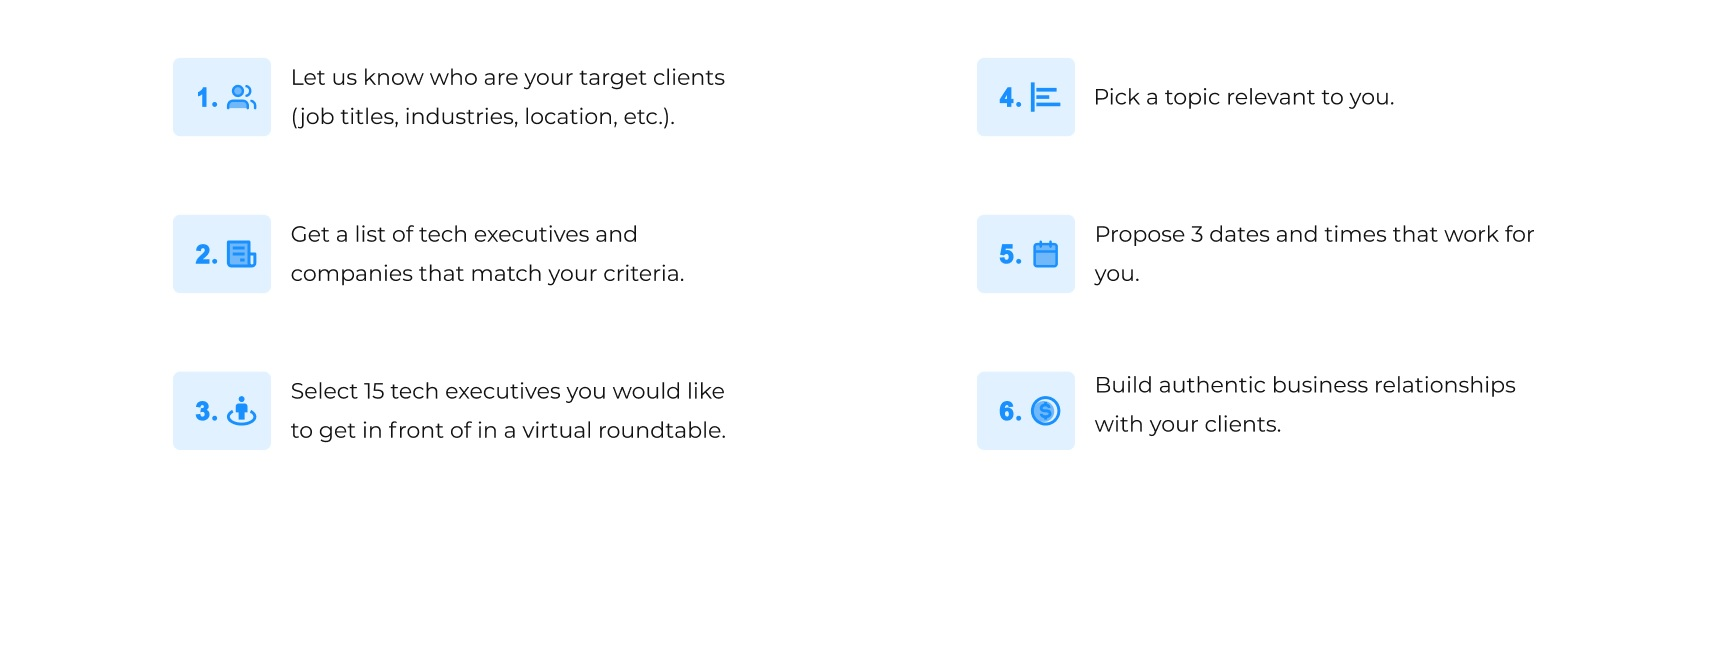
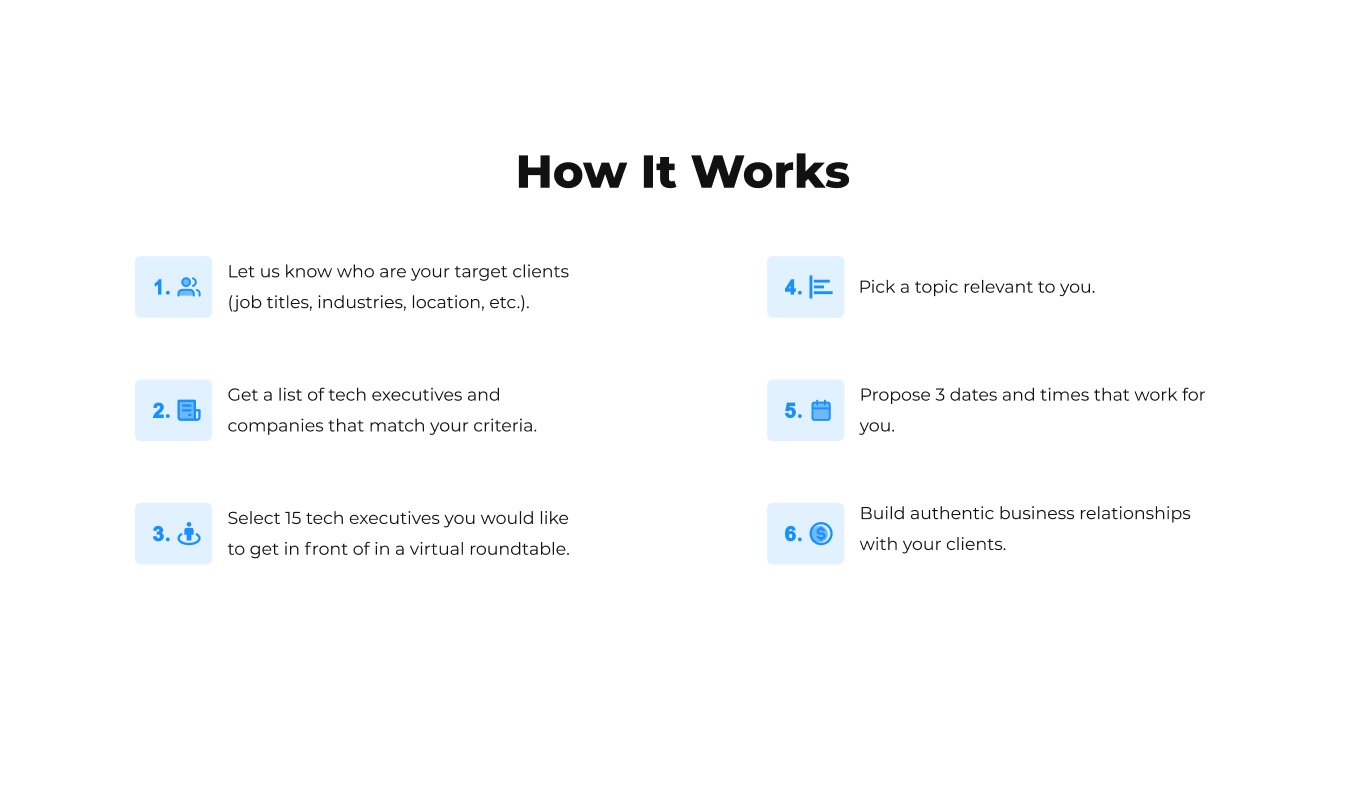
Home page style fixes

Changed region(s): [[0.0923, 0.3058, 0.4308, 0.7034], [0.0923, 0.0917, 0.8, 0.2446], [0.5538, 0.3058, 0.8923, 0.7034]]

diff --git a/src/Home.js b/src/Home.js
@@ -21,13 +21,10 @@ const Home = () => {
             <Layout>
                 <Content className="home-jumbo-content">
                     <img src={jumboBig} />
-                    <Row >
+                    <Row style={{paddingBottom : '10px', marginTop: '-15px'}} >
                         <Link to={`/sponsorHome/`} className="home-call-to-action">
                             <a className="button-execweb-brand"> Get in front of relevant executives </a>
                         </Link>
-                    </Row>
-                    <Row>
-                        <Title level={3} className="home-about-heading"> How it Works </Title>
                     </Row>
                     <Row>
                         <img src={howItWorks} className="home-about-content"/>
